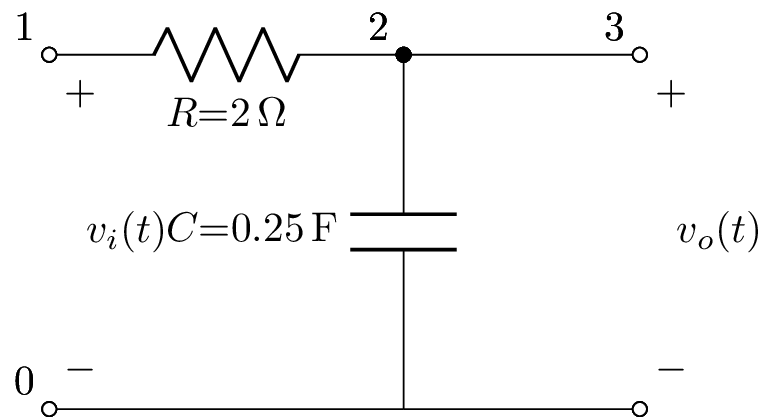
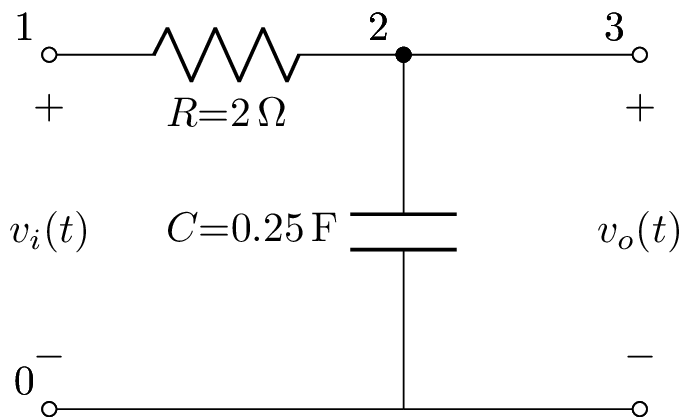
Tweak VRC2

diff --git a/doc/tutorials.rst b/doc/tutorials.rst
@@ -267,7 +267,7 @@ The following netlist describes a first-order RC low-pass filter (the
 
     >>> from lcapy import Circuit
     >>> a = Circuit("""
-    ... P1 1 0; down=1.5, v=v_i(t)
+    ... P1 1 0; down=1.5, v_=v_i(t)
     ... R 1 2 2; right=1.5
     ... C 2 0_2 {1/4}; down
     ... W 0 0_2; right
